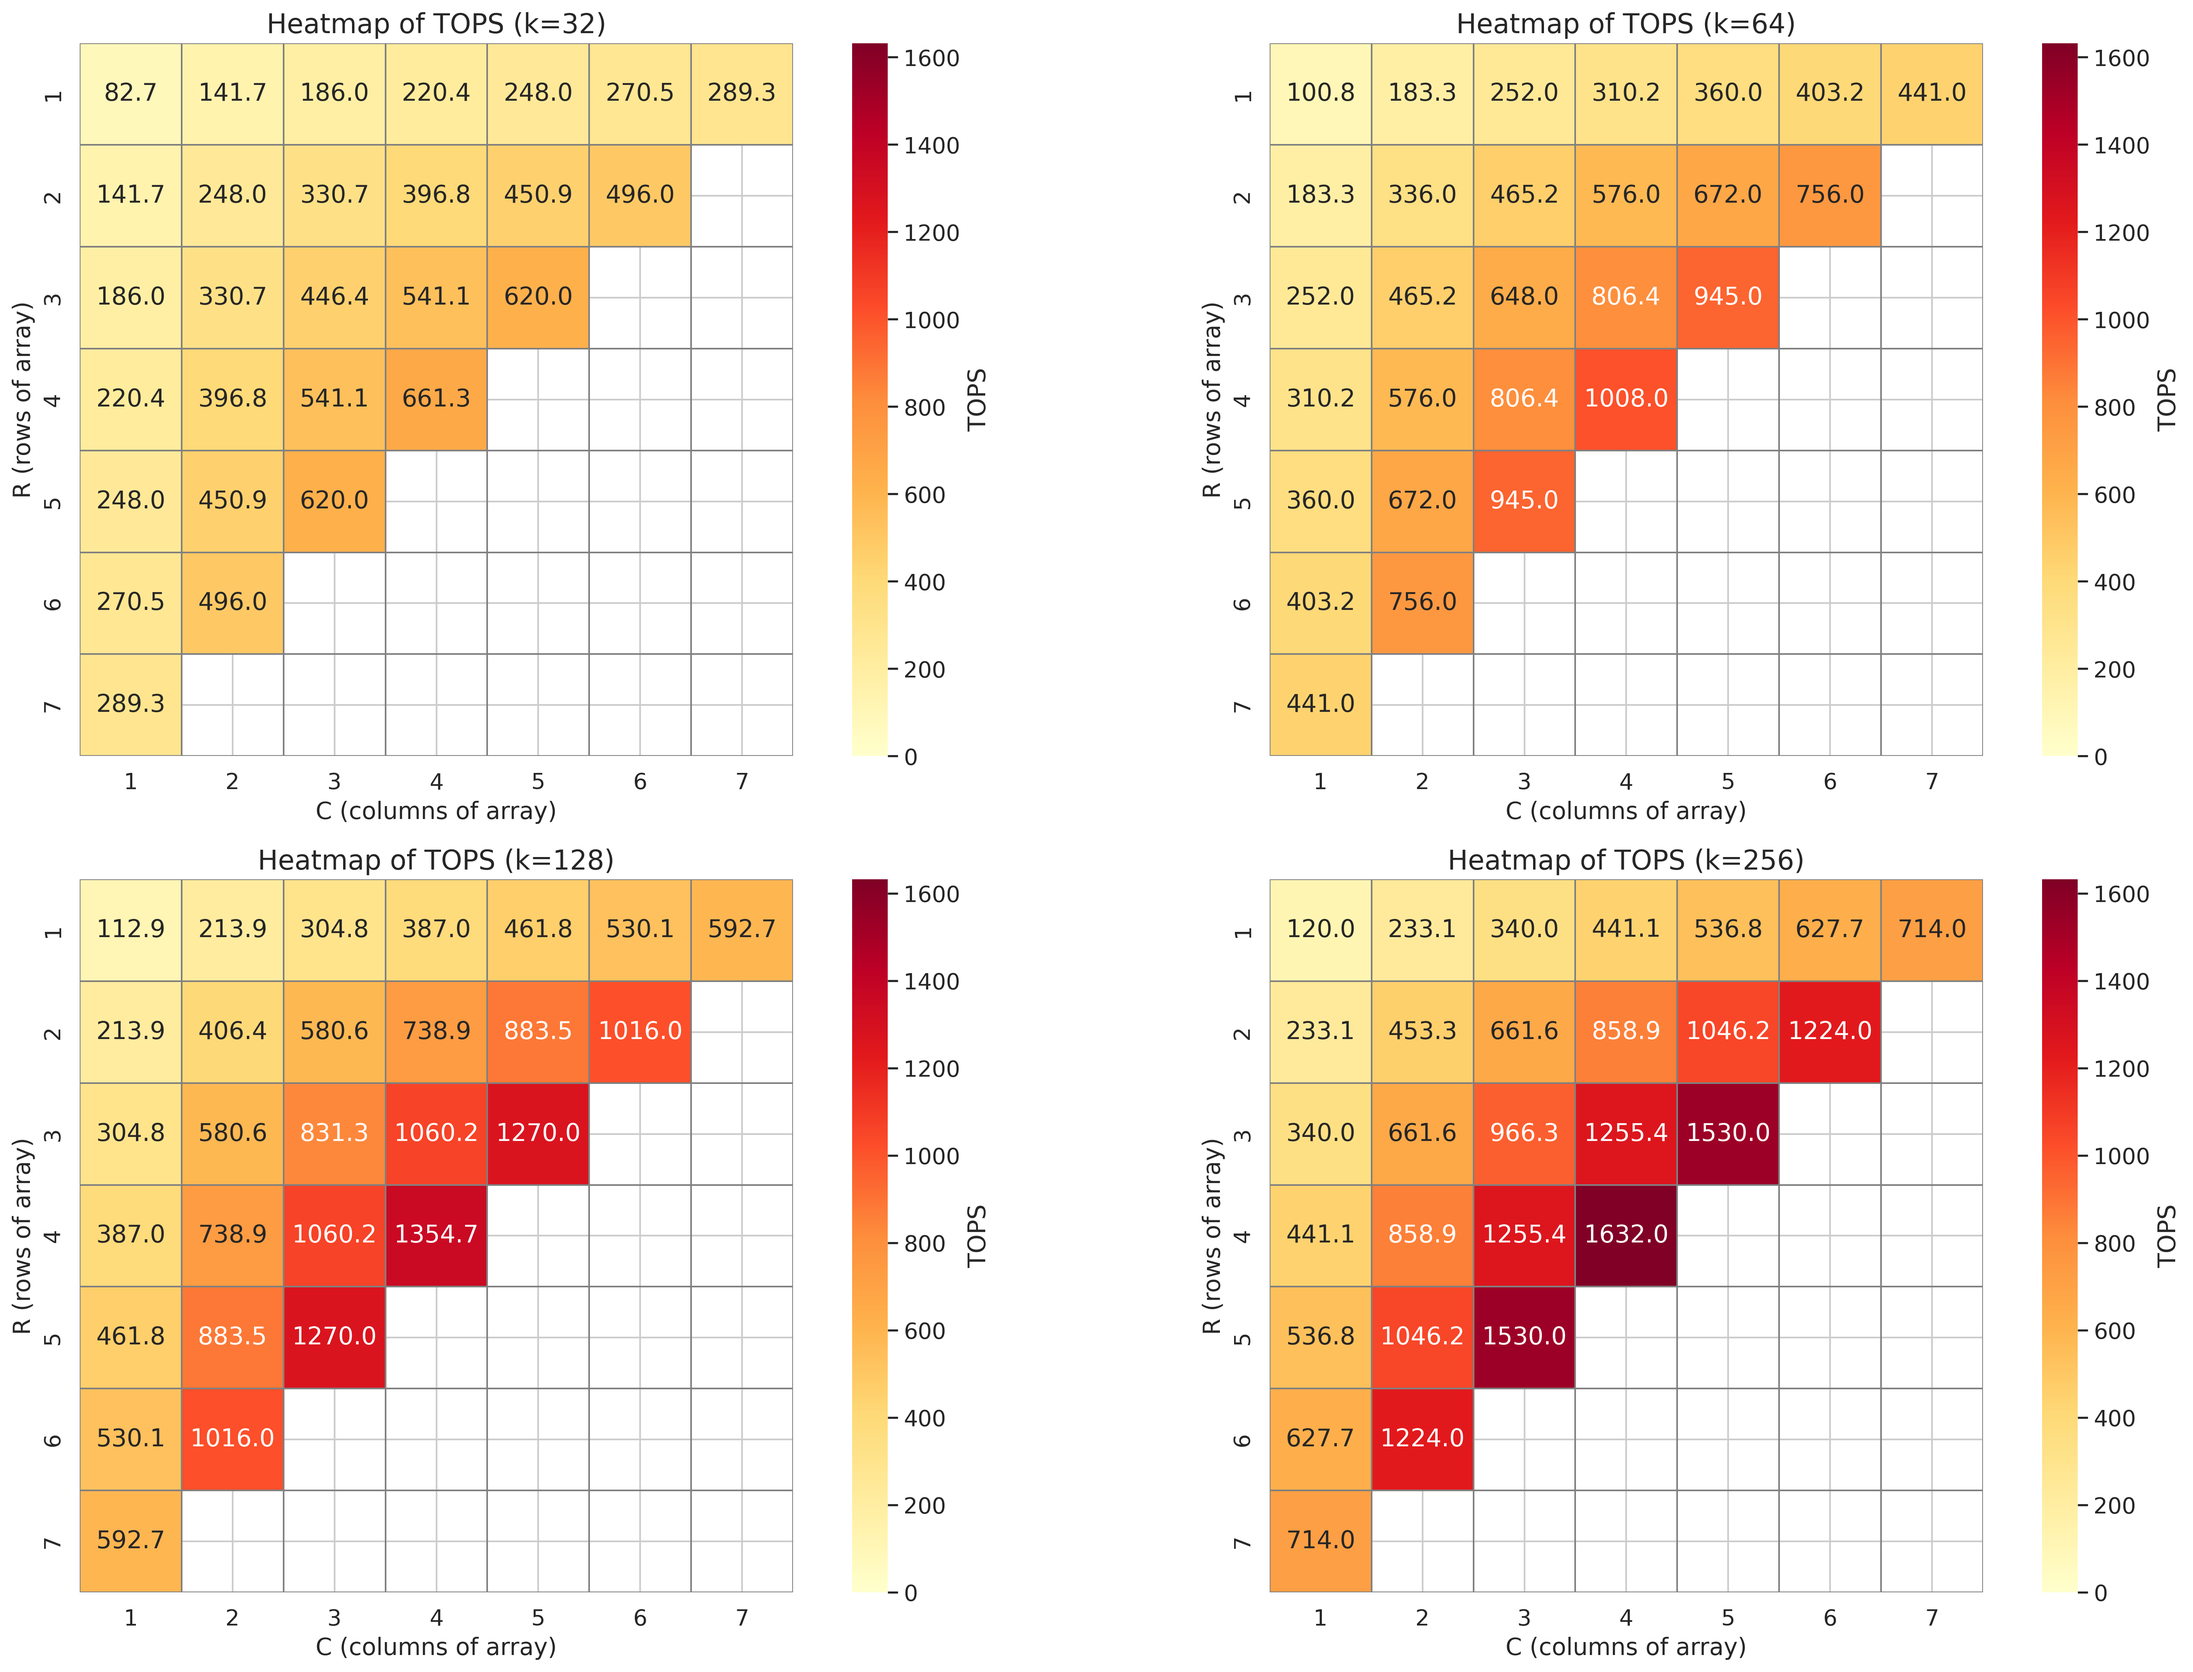
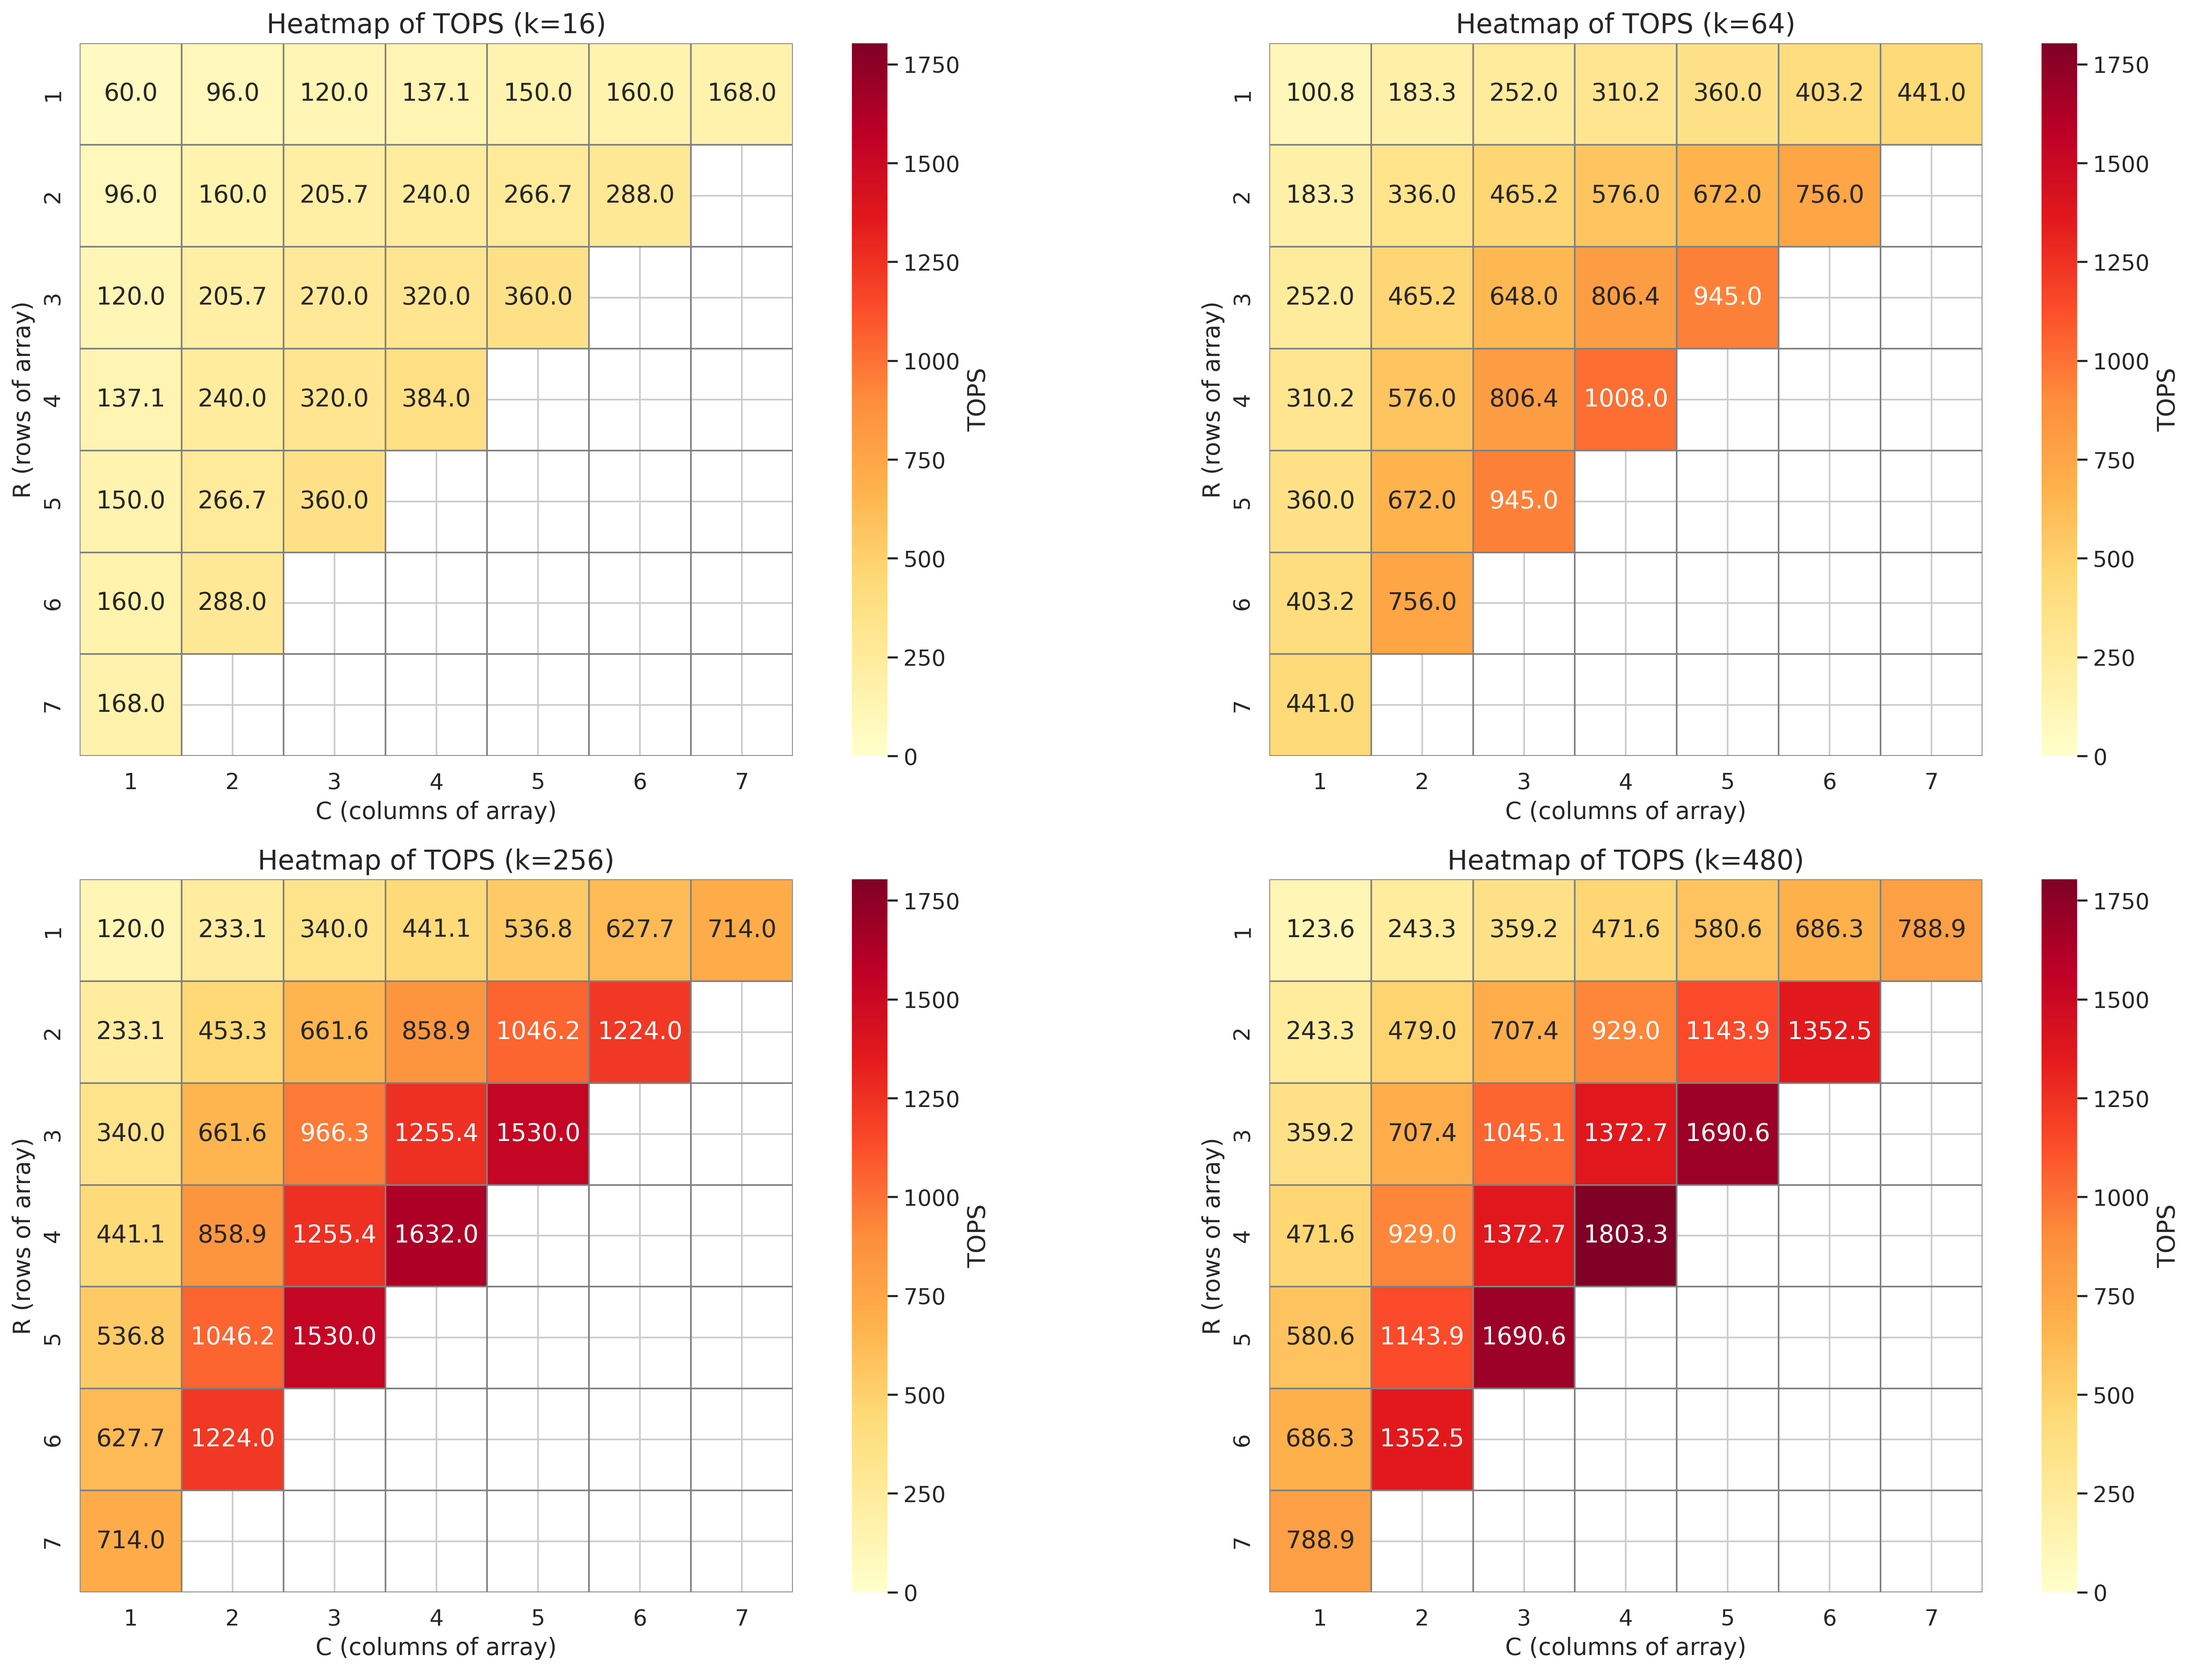
revise config search codes because of output datatype change

diff --git a/search.py b/search.py
@@ -7,14 +7,14 @@ from numba import njit  # For performance optimization
 from matplotlib.colors import Normalize
 
 # Constants
-VLEN = 8192
+VLEN = 4096
 NR_LANES = 8
 LMUL = 8
 MAX_PPE = 64
 MAX_PRODUCT = 64
 
 # Configuration ranges
-k_values = np.array([32, 64, 128, 256], dtype=int)
+k_values = np.array([16, 64, 256, 480], dtype=int)
 R_values = np.arange(1, 8, dtype=int)
 C_values = np.arange(1, 8, dtype=int)
 Ppe_values = np.arange(1, 9, dtype=int)
@@ -25,18 +25,18 @@ valid_RC = [(R, C) for R in R_values for C in C_values if R + C <= 8]
 
 
 @njit
-def compute_tops(k, R, C, Ppe, Ptile):
+def compute_tops(k, R, C, Pmac, Ppe):
     """Optimized TOPS calculation using Numba"""
-    t = math.ceil(k / Ppe)
+    t = math.ceil(k / Pmac)
 
     # Check constraints
-    if 8 * Ppe > MAX_PPE or Ptile * Ppe > MAX_PRODUCT or 8 * Ptile > MAX_PRODUCT:
+    if  8 * R * Pmac + C * Ppe * Pmac > 64 * 8 or 2 * R * Ppe > 64 * 8:
         return -1
     
-    if (8 * t * R * Ppe) + (t * C * Ptile * Ppe) + (8 * R * C * Ptile) > 32 * VLEN:
+    if (8 * t * R * Pmac) + (t * C * Ppe * Pmac) + (8 * R * C * Ppe) > 32 * VLEN:
         return -1
 
-    numerator = 2 * R * C * Ptile * (k - 1)
+    numerator = 2 * R * C * Ppe * (k - 1)
     denominator = R + t + C
     return numerator / denominator
 
@@ -48,17 +48,17 @@ def find_best_config(k):
 
     # First filter by valid R,C pairs
     for R, C in valid_RC:
-        for Ppe in Ppe_values:
-            # Early exit for Ppe constraints
-            if 8 * Ppe > MAX_PPE:
+        for Pmac in Ppe_values:
+            # Early exit for Pmac constraints
+            if 8 * Pmac > MAX_PPE:
                 continue
 
-            for Ptile in Ptile_values:
-                tops = compute_tops(k, R, C, Ppe, Ptile)
+            for Ppe in Ptile_values:
+                tops = compute_tops(k, R, C, Pmac, Ppe)
                 if tops > best_tops:
                     best_tops = tops
-                    t = math.ceil(k / Ppe)
-                    best_config = (k, R, C, Ppe, Ptile, t, tops)
+                    t = math.ceil(k / Pmac)
+                    best_config = (k, R, C, Pmac, Ppe, t, tops)
 
     return best_config
 
@@ -66,7 +66,7 @@ def find_best_config(k):
 def print_results():
     """Print the best configurations in a formatted table"""
     header = (
-        f"{'k':>4} {'R':>3} {'C':>3} {'Ppe':>5} {'Ptile':>6} {'t':>5} {'TOPS':>10} |"
+        f"{'k':>4} {'R':>3} {'C':>3} {'Pmac':>5} {'Ppe':>6} {'t':>5} {'TOPS':>10} |"
         f" {'SRAM':^6} {'BW_Ppe':^8} {'BW_Tile':^10} {'BW_Total':^10}"
     )
     print("best config:")
@@ -76,11 +76,11 @@ def print_results():
     for k in k_values:
         config = find_best_config(k)
         if config:
-            k, R, C, Ppe, Ptile, t, tops = config
+            k, R, C, Pmac, Ppe, t, tops = config
             print(
-                f"{k:>4} {R:>3} {C:>3} {Ppe:>5} {Ptile:>6} {t:>5} {tops:>10.2f} |"
-                f" {'✅':^6} {'✅' if 8*Ppe<=64 else '❌':^8} "
-                f"{'✅' if Ptile*Ppe<=64 else '❌':^10} {'✅' if 8*Ptile<=64 else '❌':^10}"
+                f"{k:>4} {R:>3} {C:>3} {Pmac:>5} {Ppe:>6} {t:>5} {tops:>10.2f} |"
+                f" {'✅':^6} {'✅' if 8*Pmac<=64 else '❌':^8} "
+                f"{'✅' if Ppe*Pmac<=64 else '❌':^10} {'✅' if 8*Ppe<=64 else '❌':^10}"
             )
         else:
             print(f"{k:>4} 无合法配置")
@@ -100,9 +100,9 @@ def generate_heatmaps():
         heatmap_data = np.full((len(R_values), len(C_values)), np.nan)
         for R, C in valid_RC:
             best_tops = -1
-            for Ppe in Ppe_values:
-                for Ptile in Ptile_values:
-                    tops = compute_tops(k, R, C, Ppe, Ptile)
+            for Pmac in Ppe_values:
+                for Ppe in Ptile_values:
+                    tops = compute_tops(k, R, C, Pmac, Ppe)
                     if tops > best_tops:
                         best_tops = tops
             if best_tops > 0:
@@ -216,8 +216,8 @@ def plot_3d_tops_surface(R=4, C=4, k=64):
             )
 
     # 图形装饰
-    ax.set_xlabel("Ppe Value", labelpad=15)
-    ax.set_ylabel("Ptile Value", labelpad=15)
+    ax.set_xlabel("Pmac Value", labelpad=15)
+    ax.set_ylabel("Ppe Value", labelpad=15)
     ax.set_zlabel("TOPS Performance", labelpad=15)
     ax.set_title(
         f"3D TOPS Performance Surface\n(R={R}, C={C}, k={k})", y=1.05, fontsize=14
